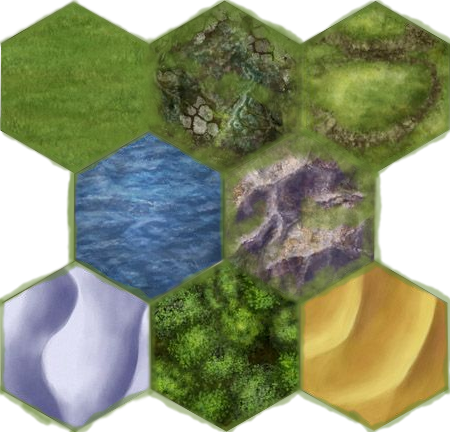
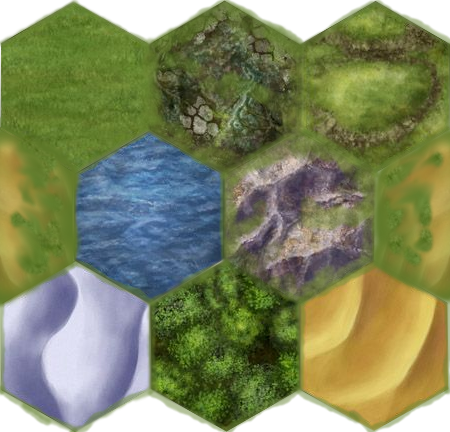
nice map generator

Changed region(s): [[0.8089, 0.3009, 1.0, 0.7222], [0.0, 0.3009, 0.1867, 0.7222]]

diff --git a/it2/civ/buildMap.js b/it2/civ/buildMap.js
@@ -2,10 +2,11 @@
 
 const SEA = 0;
 const GRASS = 1;
-const SWAMP = 2;
-const FOREST = 3;
-const HILL = 4;
-const MOUNTAIN = 5;
+const PLAIN = 2;
+const SWAMP = 3;
+const FOREST = 4;
+const HILL = 5;
+const MOUNTAIN = 6;
 
 /**
  * lager et kart for civ
@@ -21,10 +22,11 @@ function build(w, h) {
 
     // generate random number of islands
     // x,y is pos, r is radius
-    let islandCount = roll(3, 12);
+    let islandCount = roll(5, 18);
     let islands = Array(islandCount).fill(0);
     let maxR = Math.min(w, h) / 2;
-    islands = islands.map((e) => ({ x: roll(1, w - 1), y: roll(1, h - 1), r: roll(2, maxR) }));
+    let minR = Math.max(4, maxR - islandCount);
+    islands = islands.map((e) => ({ x: roll(1, w - 1), y: roll(1, h - 1), r: roll(minR, maxR) }));
 
     // place initial mountain at island seed
     islands.forEach(e => { theMap[e.x][e.y] = MOUNTAIN })
@@ -34,20 +36,64 @@ function build(w, h) {
         let iter = Math.min(90, e.r * e.r);
         for (let i = 0; i < iter; i++) {
             let p = throwStone(e);
-            let x = p.x % w;
-            let y = p.y % h;
+            let x = (p.x + w) % w;
+            let y = (p.y + h) % h;
             if (!theMap[x]) {
                 console.log(x, y);
             }
             if (theMap[x][y] === SEA) {
                 // close to island === mountain
                 // far away === grass
-                let t = 2 + Math.floor(Math.random() * 10 * (1 - p.r / e.r));
+                let t = 3 + Math.floor(Math.random() * 9 * (1 - p.r / e.r));
                 theMap[x][y] = Math.min(MOUNTAIN, t);
             }
         }
     });
-    return theMap;
+
+
+    // create land around high ground (mountain -> hills -> forrest -> swamp -> grass)
+    theMap.forEach((e, x) => e.forEach((e, y) => {
+        if (e === SEA) {
+            // check in 6 directions
+            let adjacent = getNeighbours(x, y);
+            let m = Math.max(...adjacent);
+            if (adjacent.length > 1 && m > GRASS) {
+                theMap[x][y] = m - roll(1, m - 1);
+            }
+        }
+    }))
+
+
+    if (islandCount < 12) {
+        // do it twice to grow some more land
+        // create land around high ground (mountain -> hills -> forrest -> swamp -> grass)
+        theMap.forEach((e, x) => e.forEach((e, y) => {
+            if (e === SEA) {
+                // check in 6 directions
+                let m = Math.max(...getNeighbours(x, y));
+                if (m > GRASS) {
+                    theMap[x][y] = m - roll(1, m - 1);
+                }
+            }
+        }))
+    }
+
+
+    function getNeighbours(x, y) {
+        n = [];
+        n.push(theMap[(x + w - 1) % w][y]);
+        n.push(theMap[(x + 1) % w][y]);
+        n.push(theMap[x][(y + 1) % h]);
+        n.push(theMap[x][(y + h - 1) % h]);
+        n.push(theMap[(x + w - 1) % w][(y + 1) % h]);
+        n.push(theMap[(x + 1) % w][(y + h - 1) % h]);
+        return n.filter(e => e > 0);
+    }
+
+
+
+
+    return [theMap, islands];
 }
 
 /**

diff --git a/it2/civ/civ.js b/it2/civ/civ.js
@@ -3,36 +3,35 @@
 function civ() {
     let divMain = document.getElementById("main");
     let divBoard = document.getElementById("board");
-    let terrain = "sea,grass,swamp,forest,hill,mountain,desert".split(",");
+    let ctx = document.getElementById("minimap").getContext("2d");
+    let terrain = "sea,grass,plain,swamp,forest,hill,mountain,desert".split(",");
+    let colors = "blue,green,yellow,sandybrown,teal,olive,darkgray,orange".split(",");
 
 
 
-    const W = 50;   // antall brikker i bredden
-    const H = 30;    // antall brikker i høyden
+    const W = 150;   // antall brikker i bredden
+    const H = 90;    // antall brikker i høyden
     const HexH = 115;  // høde bredde på hex-tile
     const hexW = 100;
     const hexD = 115 * 17 / 23;  // forskyvning i høyde mellom rader
 
-    let brett = [];
+    let brett;
     let board = [];
-    let px = 30;
-    let py = 30;
-    /*
-    for (let i = 0; i < W; i++) {
-        brett[i] = [];
-        for (let j = 0; j < H; j++) {
-            let type;
-            if (i === 0 || i + 1 === W || j === 0 || j + 1 === W) {
-                type = terrain.length - 1;
-            } else {
-                type = Math.floor(Math.random() * (terrain.length - 1));
-            }
-            brett[i][j] = type;
-        }
-    }
-    */
+    let islands;
 
-    brett = build(W,H);
+
+    [brett, islands] = build(W, H);
+
+    myland = islands[0];
+    let t;
+    let px = myland.x;
+    let py = myland.y;
+    do {
+        px++;
+        t = brett[px][py]
+    } while (t === MOUNTAIN || t === SEA);
+    px = (px + W - 8) % W;
+    py = (py + H - 4) % H;
 
     for (let i = 0; i < 17; i++) {
         board[i] = [];
@@ -48,6 +47,8 @@ function civ() {
 
 
 
+
+
     function render(px, py) {
         for (let i = 0; i < 17; i++) {
             for (let j = 0; j < 9; j++) {
@@ -56,7 +57,19 @@ function civ() {
                 t.className = "hex " + terrain[tile];
             }
         }
+        minimap();
+        ctx.strokeStyle = "white";
+        ctx.strokeRect((px + 6) * 4 + 4 * (py / 2), (py + 1) * 4, 28, 28);
+    }
 
+    function minimap() {
+        brett.forEach((e, x) => e.forEach((e, y) => {
+            let px = (x + Math.floor(y / 2)) % W;
+            let py = y;
+            let color = colors[brett[x][y]];
+            ctx.fillStyle = color;
+            ctx.fillRect(px * 4, py * 4, 4, 4);
+        }));
     }
 
     render(px, py);

diff --git a/it2/civ/civ.css b/it2/civ/civ.css
@@ -17,6 +17,10 @@
   
 }
 
+#minimap {
+    border:solid green 1px;
+}
+
 div.hidden {
     display: none;
 }
@@ -75,6 +79,12 @@ div.spinner div {
     background-position-x: -4px;
     background-position-y: -4px;
 } 
+
+.hex.plain {
+    background-position-x: 52px;
+    background-position-y: -91px;
+} 
+  
   
 .hex.sea {
     background-position-x: 578px;

diff --git a/it2/civ/civ.html b/it2/civ/civ.html
@@ -47,6 +47,11 @@
         </div>
         <div id="frame"></div>
     </div>
+
+    <canvas id="minimap" class="idden" width="500" height="300">
+
+    </canvas>
+
     <div class="spinner">
         <div></div>
     </div>
